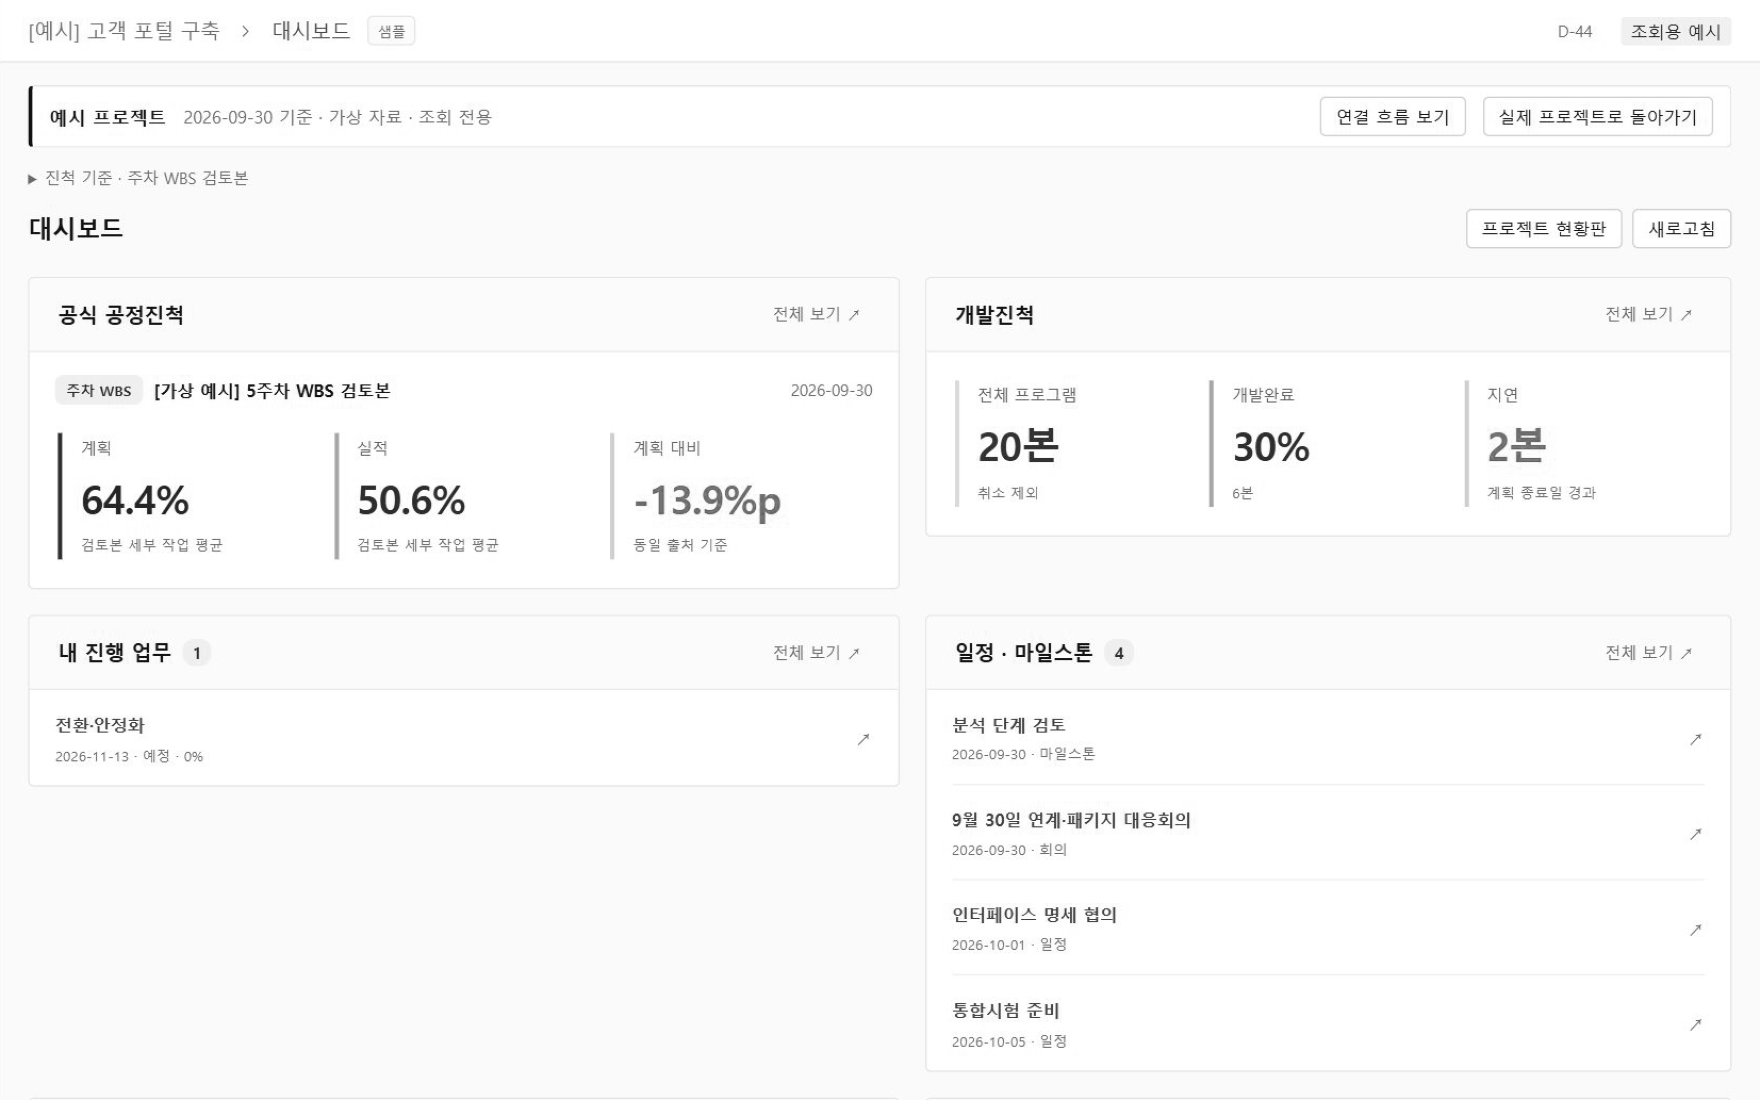
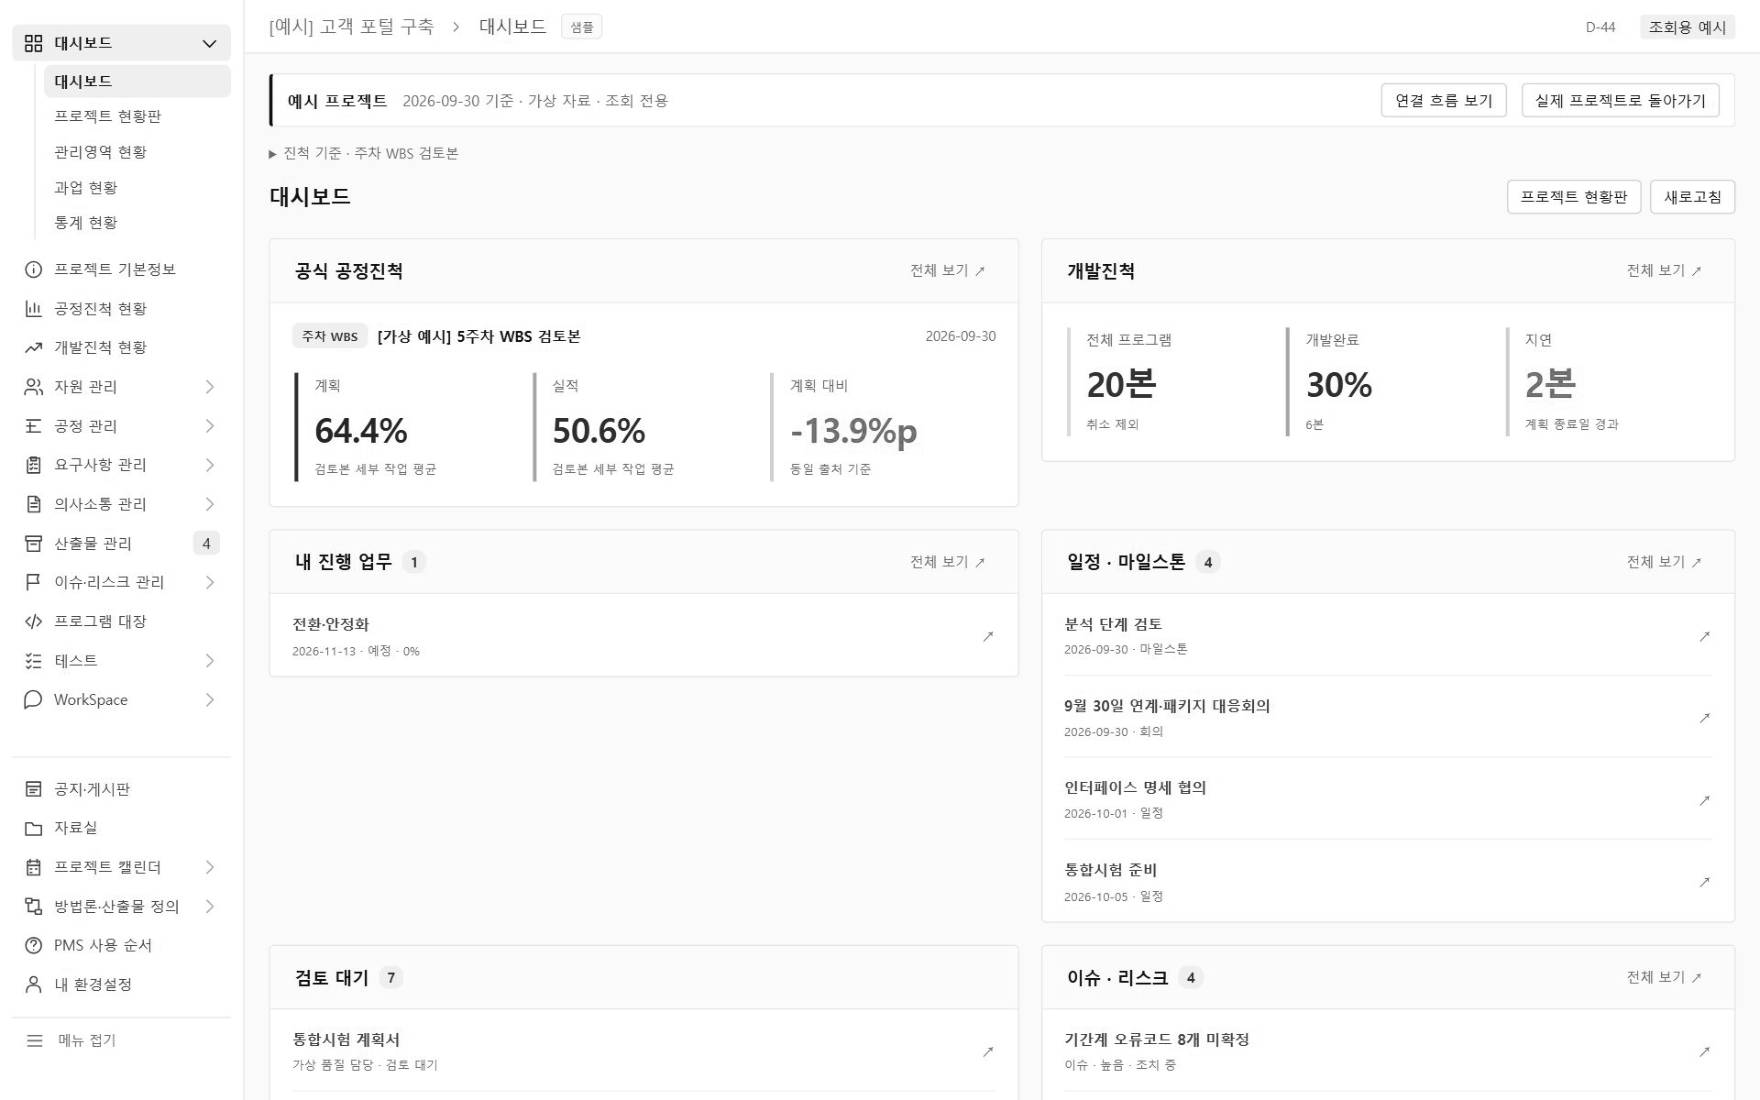
PMS 화면 셋을 왼쪽 메뉴가 보이는 판으로 바꾼다
잘라 냈던 왼쪽 메뉴를 되살리고 캡션에서 그 설명을 뺐다.

diff --git a/index.html b/index.html
@@ -415,8 +415,8 @@ p.f-note { line-height: 1.5; }
 <p class="eyebrow">Featured 01 · 아키텍처 설계 · v0.6 – v0.40 · 2026.09.28 – 10.13</p>
 <div class="grid content feat">
 <figure class="shot pic">
-<div class="img r1610"><img src="assets/bw-pms-dashboard.png" width="1760" height="1100" loading="lazy" alt="PMS v0.40의 대시보드입니다. 왼쪽 메뉴는 잘라 냈습니다. 가상 예시 프로젝트의 공식 공정진척(계획 64.4%, 실적 50.6%, 계획 대비 -13.9%p)과 개발진척(전체 프로그램 20본, 개발완료 30%, 지연 2본), 내 진행 업무, 일정과 마일스톤이 보입니다."></div>
-<figcaption>v0.40의 대시보드입니다. 가상 예시 프로젝트 「[예시] 고객 포털 구축」의 자료이고 실제 프로젝트의 기록이 아닙니다. 2026.10.13에 캡처했고, 왼쪽 메뉴를 잘라 내고 흑백으로 바꿔 실었습니다.</figcaption>
+<div class="img r1610"><img src="assets/bw-pms-dashboard.png" width="1760" height="1100" loading="lazy" alt="PMS v0.40의 대시보드입니다. 왼쪽에 메뉴가 있습니다. 가상 예시 프로젝트의 공식 공정진척(계획 64.4%, 실적 50.6%, 계획 대비 -13.9%p)과 개발진척(전체 프로그램 20본, 개발완료 30%, 지연 2본), 내 진행 업무, 일정과 마일스톤이 보입니다."></div>
+<figcaption>v0.40의 대시보드입니다. 가상 예시 프로젝트 「[예시] 고객 포털 구축」의 자료이고 실제 프로젝트의 기록이 아닙니다. 2026.10.13에 캡처했고 흑백으로 바꿔 실었습니다.</figcaption>
 </figure>
 <div class="side">
 <p class="title">「PMS」는 여러 조직이 계정과 권한을 나눠 함께 쓰도록 만든 프로젝트 관리 웹 시스템입니다. 인터넷 연결 없이 Node.js만으로 띄우는 것을 조건으로 에이전트와 만들고 있습니다.</p>
